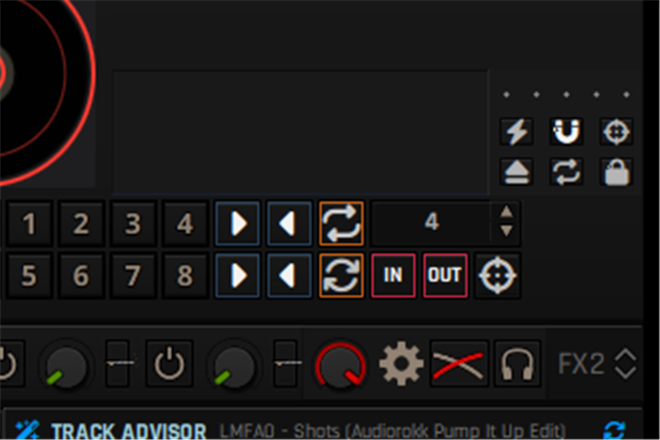
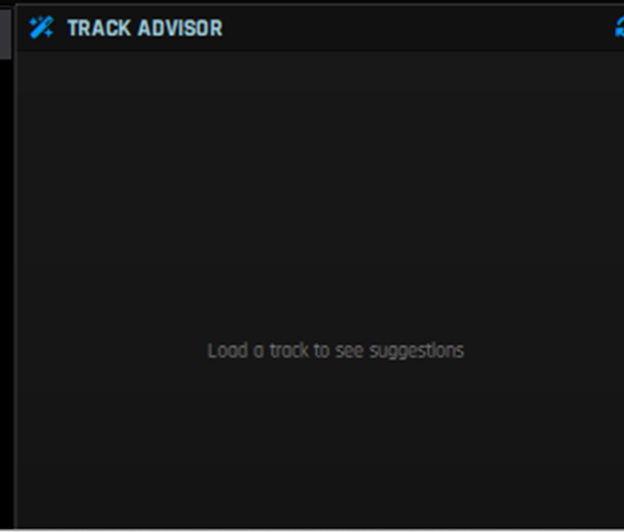
README: the engine is installed from the preferences, and a proper Track Advisor shot

diff --git a/README-FORK.md b/README-FORK.md
@@ -61,24 +61,23 @@ Y el panel de la barra (*STEMS*) muestra el entorno detectado, el interruptor de
 
 ![Panel de stems con la cola](docs/fork/stems-cola.png)
 
-### El entorno de Python no se instala solo
+### El motor se instala desde Preferencias
 
-Mixxx **no** trae Python ni las dependencias de la separación: el worker corre en un entorno
-propio porque ONNX Runtime ocupa cientos de MB y no tiene sentido dentro de una aplicación de
-DJ. Lo que sí está en el repositorio es el worker (`res/stems/stems_worker.py` + `stem_mp4.py`:
-se instalan junto a la aplicación y no hay que tocar nada) y el instalador del entorno:
+Mixxx **no** lleva dentro el motor de separación: son cientos de MB (ONNX Runtime, las ruedas de
+Python y los modelos), así que se descarga aparte y se instala en una carpeta propia, sin tocar
+nada del sistema. Se hace desde **Preferencias → Stems → Engine**, con progreso y botón de
+cancelar:
 
-```bash
-python res/stems/setup_venv.py            # con GPU NVIDIA (CUDA)
-python res/stems/setup_venv.py --cpu      # sin GPU: usa la CPU (unas 4x más lento)
-```
+| Variante | Qué baja | Para quién |
+| --- | --- | --- |
+| **CPU** | intérprete de Python autocontenido, las ruedas de la plataforma y los modelos | cualquier equipo |
+| **GPU (CUDA)** | lo mismo, más ONNX Runtime con CUDA y las ruedas de NVIDIA | equipos con GPU NVIDIA |
 
-Crea el entorno en la carpeta que Mixxx consulta por defecto
-(`<configuración>/stems/venv`, es decir `%LOCALAPPDATA%\Mixxx\stems\venv` en Windows o
-`~/.mixxx/stems/venv` en Linux) e imprime la ruta del intérprete que hay que pegar en
-*Preferencias → Stem Generation → Intérprete*. Si se deja vacío, Mixxx busca ahí; y si tampoco
-existe, usa el `python` del PATH. **Aparte del intérprete hace falta `ffmpeg`** en el PATH (para
-empaquetar el `.stem.mp4`): el worker lo llama por nombre.
+Medido con una RTX 3060: **~10× el tiempo real** (20 s por cada 4 minutos de canción) frente a
+**~2,4×** con CPU. El motor trae **su propio `ffmpeg`**, así que no hace falta instalar Python,
+pip, compilador ni nada en el PATH; y se puede borrar desde ese mismo panel. En Linux se
+desempaqueta un `tar.gz` y en Windows un ZIP, con un lector propio en C++ que respeta permisos y
+enlaces simbólicos y permite cancelar a mitad.
 
 ## 3. Asistente de IA para el AutoDJ
 
